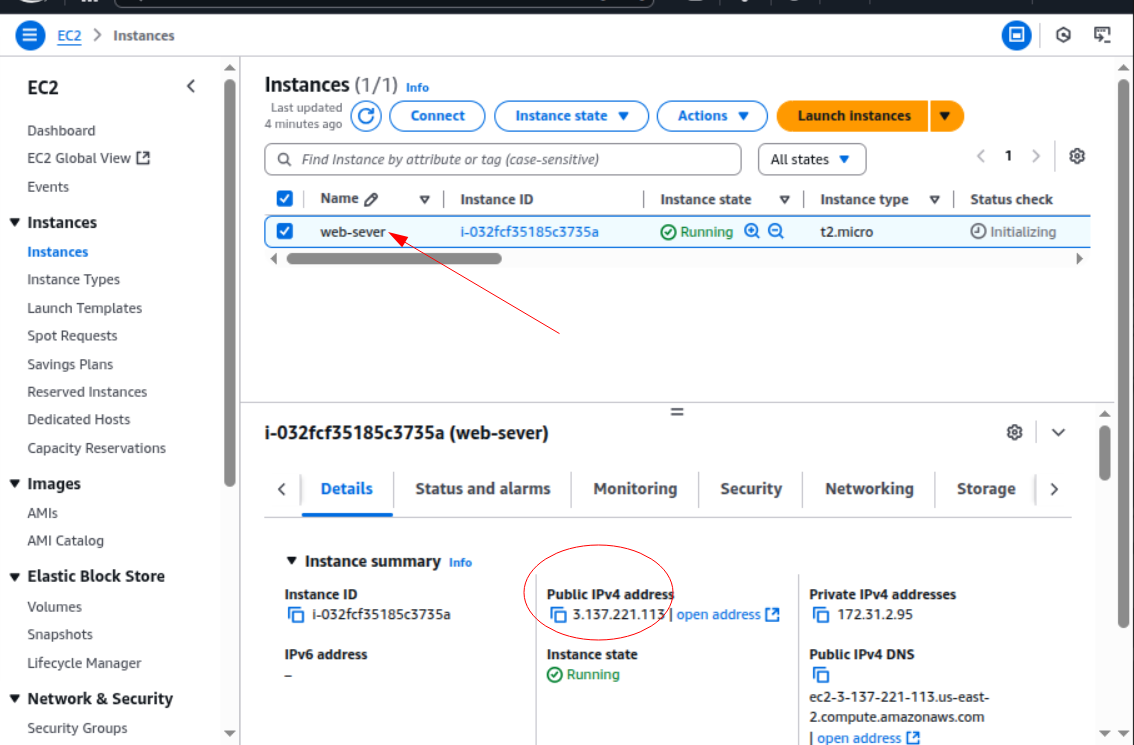
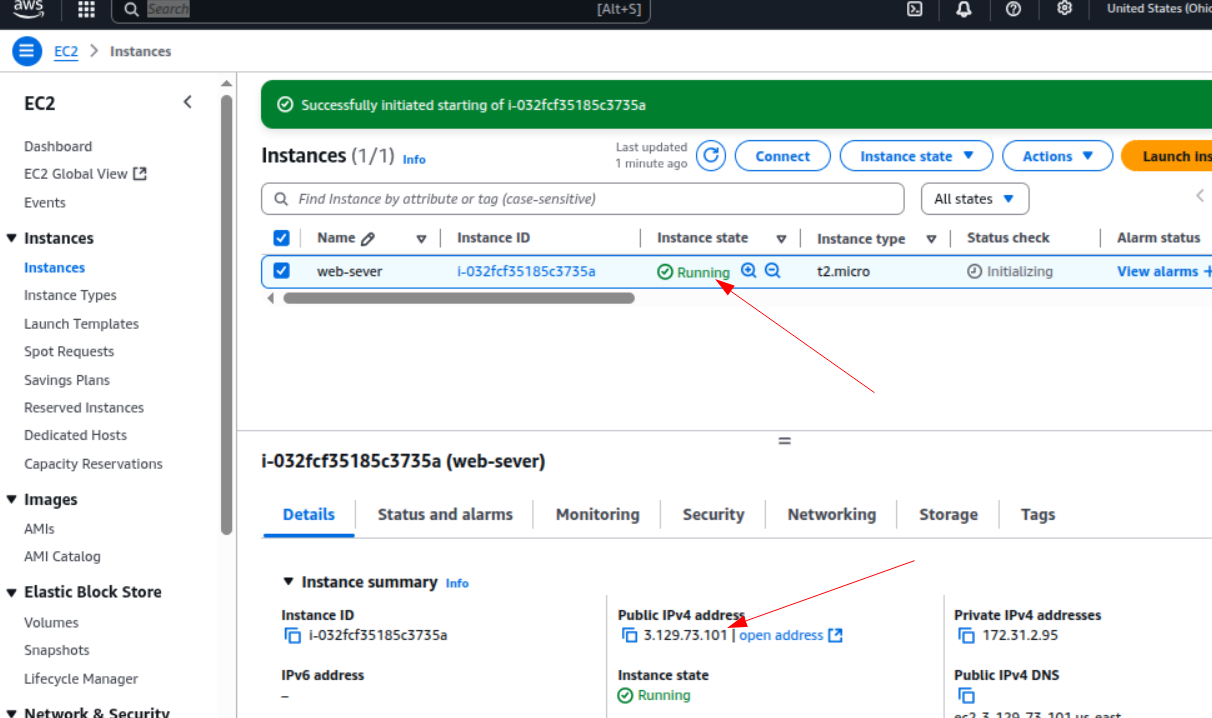
install tree

diff --git a/README.md b/README.md
@@ -47,3 +47,49 @@
 * Find the public IP address of the running instance
 
 ![ip](./img/ip-address.png)
+
+### To connect to the VM click on _connect_ while the the name checkbox is checked.
+
+![connect](./img/click-connect.png)
+
+### Another window pops. Click **ssh client** tab to see how to connect to the instance, Copy the example given.
+
+![ssh](./img/ssh-client.png)
+
+### Head over to your terminal and change directory to the location of the .pem file downloaded earlier. In this case Downloads.
+
+* `cd Downloads`
+
+### Now paste the example command you copied from the ssh client tab and hit enter.
+
+* `ssh -i "linux-mini-project.pem" ubuntu@ec2-3-129-73-101.us-east-2.compute.amazonaws.com`
+![bad](./img/bad-permission.png)
+
+### Connection was denied due to permissions issues on the .pem file as shown above.
+
+*  Run `chmod 400 linux-mini-project.pem`
+
+![chmod](./img/chmod.png)
+
+### Try connecting to the instance again
+
+![con](./img/connected1.png)
+
+![con2](./img/connect2.png)
+
+### Connection was successful as shown above.
+
+## Package managers
+
+### since our linux distrobution is Ubuntu A debian based. Adavnced Package Tool(apt) is the appropriate package manager
+
+### Updating and installing softwares on the EC2 instance.
+
+* Run `sudo apt update`
+
+![update](./img/sudo-apt-update.png)
+
+* Run `sudo apt install tree` to install tree on the VM.
+
+![tree](./img/install%20tree.png)
+
